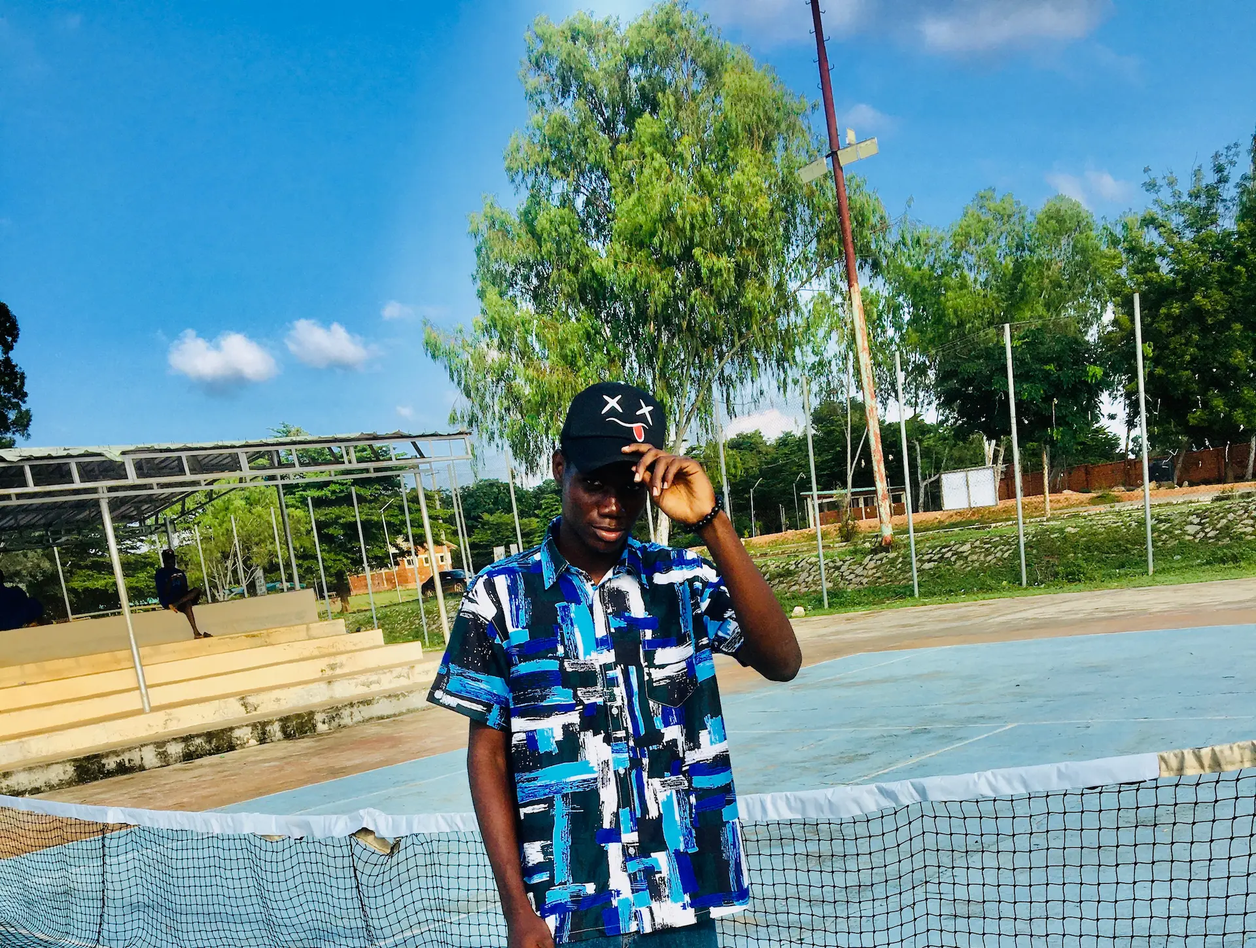
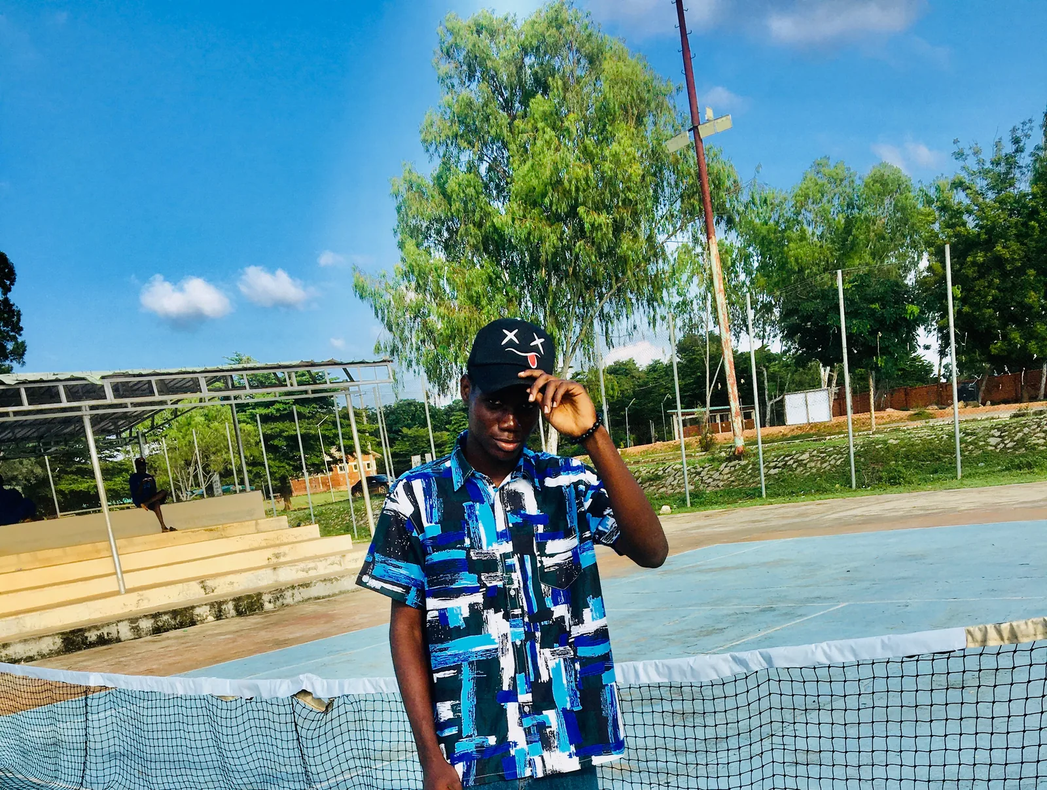
perf(assets): convert project mockup images to WebP format for fast loading

diff --git a/src/sections/Projects.tsx b/src/sections/Projects.tsx
@@ -8,18 +8,18 @@ import { motion } from "framer-motion";
 import { FolderKanban } from "lucide-react";
 import ProjectCard from "../components/ProjectCard";
 
-import gemmacodeLaptop from "../assets/gemmacode laptop.png";
-import gemmacodeMobile from "../assets/gemmacode mobile.png";
-import plantleyLaptop from "../assets/plantley laptop.png";
-import plantleyMobile from "../assets/plantley mobile.png";
-import veyloraLaptop from "../assets/veylora laptop.png";
-import veyloraMobile from "../assets/veylora mobile.png";
-import steelgrooveLaptop from "../assets/steelgroove laptop.png";
-import steelgrooveMobile from "../assets/steelgroove mobile.png";
-import aurabydassyLaptop from "../assets/aurabydassy laptop.png";
-import aurabydassyMobile from "../assets/aurabydassy mobile.png";
-import nexusLaptop from "../assets/nexusevent laptop.png";
-import nexusMobile from "../assets/nexusevents mobile.png";
+import gemmacodeLaptop from "../assets/gemmacode laptop.webp";
+import gemmacodeMobile from "../assets/gemmacode mobile.webp";
+import plantleyLaptop from "../assets/plantley laptop.webp";
+import plantleyMobile from "../assets/plantley mobile.webp";
+import veyloraLaptop from "../assets/veylora laptop.webp";
+import veyloraMobile from "../assets/veylora mobile.webp";
+import steelgrooveLaptop from "../assets/steelgroove laptop.webp";
+import steelgrooveMobile from "../assets/steelgroove mobile.webp";
+import aurabydassyLaptop from "../assets/aurabydassy laptop.webp";
+import aurabydassyMobile from "../assets/aurabydassy mobile.webp";
+import nexusLaptop from "../assets/nexusevent laptop.webp";
+import nexusMobile from "../assets/nexusevents mobile.webp";
 
 interface ProjectProps {
   projectsRef: React.RefObject<HTMLDivElement | null>;
